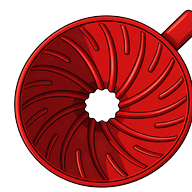
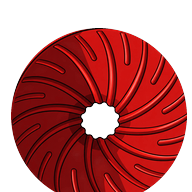
Add files via upload

diff --git a/index.html b/index.html
@@ -84,7 +84,7 @@
         <h1>☕ Mr Coffee</h1>
         <div class="sub">V60 scale-side helper</div>
       </div>
-      <div style="text-align:right"><div class="pill" id="ratioBadge">16:1 · 3× bloom</div><div class="sub" style="margin-top:5px">Mr Coffee · v1.3.8</div></div>
+      <div style="text-align:right"><div class="pill" id="ratioBadge">16:1 · 3× bloom</div><div class="sub" style="margin-top:5px">Mr Coffee · v1.3.9</div></div>
     </div>
 
     <div class="tabs">

diff --git a/service-worker.js b/service-worker.js
@@ -1,4 +1,4 @@
-const CACHE='mr-coffee-v1.3.8';
+const CACHE='mr-coffee-v1.3.9';
 const CORE=['./','./index.html','./manifest.webmanifest','./icon-192.png','./icon-512.png'];
 self.addEventListener('install',e=>{self.skipWaiting();e.waitUntil(caches.open(CACHE).then(c=>c.addAll(CORE)))});
 self.addEventListener('activate',e=>e.waitUntil(caches.keys().then(keys=>Promise.all(keys.filter(k=>k!==CACHE).map(k=>caches.delete(k)))).then(()=>self.clients.claim())));

diff --git a/README.md b/README.md
@@ -35,3 +35,6 @@ v1.3.7 increases the transparent icon scale while keeping weighted-center placem
 
 
 v1.3.8 enlarges the transparent icon again and centers it specifically on the dripper hole / main red circle rather than on the whole artwork.
+
+
+v1.3.9 removes the handle from the icon art and centers a larger main dripper circle inside the launcher-imposed white circle.
